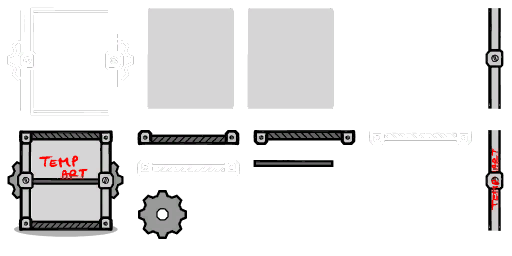
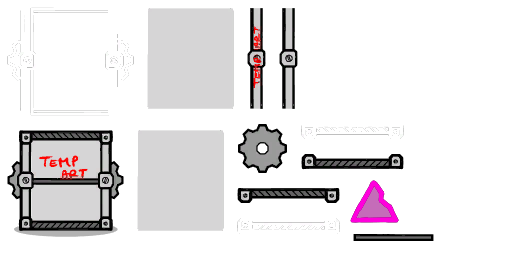
ConveyorTile; vert. mode wip

diff --git a/ConveyorTiles/ConveyorTileSM.cs b/ConveyorTiles/ConveyorTileSM.cs
@@ -1,4 +1,5 @@
-using HarmonyLib;
+using FMODUnity;
+using HarmonyLib;
 using KSerialization;
 using System.Collections.Generic;
 using UnityEngine;
@@ -9,6 +10,11 @@ namespace ConveyorTiles
 	internal class ConveyorTileSM : StateMachineComponent<ConveyorTileSM.StatesInstance>, ISaveLoadable, ICheckboxControl
 	//, IGameObjectEffectDescriptor
 	{
+		public enum ConveyorTileMode
+		{
+			Horizontal = 0,
+			Vertical = 1
+		}
 		[HarmonyPatch(typeof(Game))]
 		[HarmonyPatch(nameof(Game.DestroyInstances))]
 		public class Game_OnDestroy
@@ -82,6 +88,7 @@ namespace ConveyorTiles
 
 		[Serialize] bool LogicControllsDirection = false;
 		float TileSpeedInternal = 1;
+		[SerializeField][Serialize] public ConveyorTileMode Mode = ConveyorTileMode.Horizontal;
 
 		/// <summary>
 		/// Factorio belt arrow colors
@@ -157,22 +164,42 @@ namespace ConveyorTiles
 
 		public static bool HasTileableNeighbor(ConveyorTileSM a, ConveyorTileSM b)
 		{
-			return a.flipped == b.flipped && a.isOperational == b.isOperational && Mathf.Approximately(a.TileSpeedInternal, b.TileSpeedInternal);
+			return a.flipped == b.flipped && a.isOperational == b.isOperational && Mathf.Approximately(a.TileSpeedInternal, b.TileSpeedInternal) && a.Mode == b.Mode;
 		}
 
 		public void RefreshEndCaps()
 		{
 			if (this.transform == null) return;
 
-			int left = Grid.CellLeft(myCell);
-			int right = Grid.CellRight(myCell);
-			if (TileSMs.ContainsKey(left))
+			if (Mode == ConveyorTileMode.Horizontal)
 			{
-				TileSMs[left]?.UpdateEndCaps();
+				int left = Grid.CellLeft(myCell);
+				int right = Grid.CellRight(myCell);
+				if (TileSMs.ContainsKey(left))
+				{
+					if (TileSMs[left].Mode == this.Mode)
+						TileSMs[left]?.UpdateEndCaps();
+				}
+				if (TileSMs.ContainsKey(right))
+				{
+					if (TileSMs[right].Mode == this.Mode)
+						TileSMs[right]?.UpdateEndCaps();
+				}
 			}
-			if (TileSMs.ContainsKey(right))
+			if (Mode == ConveyorTileMode.Vertical)
 			{
-				TileSMs[right]?.UpdateEndCaps();
+				int below = Grid.CellBelow(myCell);
+				int abovel = Grid.CellAbove(myCell);
+				if (TileSMs.ContainsKey(below))
+				{
+					if (TileSMs[below].Mode == this.Mode)
+						TileSMs[below]?.UpdateEndCaps();
+				}
+				if (TileSMs.ContainsKey(abovel))
+				{
+					if (TileSMs[abovel].Mode == this.Mode)
+						TileSMs[abovel]?.UpdateEndCaps();
+				}
 			}
 			UpdateEndCaps();
 		}
@@ -250,7 +277,6 @@ namespace ConveyorTiles
 			RefreshEndCaps();
 		}
 
-		void TogglePause(bool pause) => kbac.stopped = pause;
 		bool ValidItemCell(int cell) => Grid.IsValidCell(cell) && !Grid.IsSolidCell(cell);
 
 		private void OnPickupablesChanged(object data, float dt)
@@ -278,7 +304,7 @@ namespace ConveyorTiles
 							continue;
 						}
 						//if config disables conveyor for critters
-						if (component.HasTag(GameTags.Creature) && Config.Instance.ImmuneCritters)
+						if (component.HasTag(GameTags.Creature) && (Config.Instance.ImmuneCritters || (component.GetSMI<RanchedStates.Instance>()?.IsRunning() ?? false)))
 						{
 							continue;
 						}
@@ -288,9 +314,14 @@ namespace ConveyorTiles
 							continue;
 						}
 						///Working dupes that have started working are immune (doesnt affect walkers)
-						if (pickupable.TryGetComponent<WorkerBase>(out var worker) && worker.GetWorkable() != null && (worker.GetWorkable().GetPercentComplete() > 0||Grid.PosToCell(worker.GetWorkable()) == Grid.PosToCell(component)))
+						if (pickupable.TryGetComponent<WorkerBase>(out var worker) && worker.GetWorkable() != null
+							&& (worker.GetWorkable().GetPercentComplete() > 0)
+							)
 						{
-							
+							continue;
+						}
+						if (pickupable.TryGetComponent<ChoreDriver>(out var choreDriver) && choreDriver.GetCurrentChore() != null && choreDriver.GetCurrentChore().GetReportName() == "Ranch")
+						{
 							continue;
 						}
 					}
@@ -306,8 +337,6 @@ namespace ConveyorTiles
 			}
 			gathered_entries.Recycle();
 		}
-
-
 
 		public override void OnCleanUp()
 		{

diff --git a/ConveyorTiles/ConveyorLiftConfig.cs b/ConveyorTiles/ConveyorLiftConfig.cs
@@ -1,0 +1,113 @@
+using System;
+using System.Collections.Generic;
+using System.Linq;
+using System.Text;
+using System.Threading.Tasks;
+using TUNING;
+using UnityEngine;
+
+namespace ConveyorTiles
+{
+    class ConveyorLiftConfig : IBuildingConfig
+	{
+		public const string ID = "CT_ConveyorLift";
+		public override BuildingDef CreateBuildingDef()
+		{
+			float[] materialMass = new float[]
+			{
+				125f,
+			};
+			string[] materialType = new string[]
+			{
+				MATERIALS.REFINED_METAL
+			};
+			EffectorValues noiseLevel = NOISE_POLLUTION.NONE;
+			EffectorValues decorValue = BUILDINGS.DECOR.PENALTY.TIER0;
+			BuildingDef buildingDef = BuildingTemplates.CreateBuildingDef(
+				id: ID,
+				width: 1,
+				height: 1,
+				anim: "conveyorelevator_kanim",
+				hitpoints: 15,
+				construction_time: 20f,
+				construction_mass: materialMass,
+				construction_materials: materialType,
+				melting_point: 1600f,
+				BuildLocationRule.Tile,
+				decor: decorValue,
+				noise: noiseLevel);
+
+			BuildingTemplates.CreateFoundationTileDef(buildingDef);
+
+			buildingDef.IsFoundation = true;
+			buildingDef.Overheatable = false;
+			buildingDef.Floodable = false;
+			buildingDef.Entombable = false;
+			buildingDef.PermittedRotations = PermittedRotations.Unrotatable;
+			buildingDef.TileLayer = ObjectLayer.FoundationTile;
+			buildingDef.SceneLayer = Grid.SceneLayer.TileMain;
+			buildingDef.ForegroundLayer = Grid.SceneLayer.TileFront;
+
+			buildingDef.ConstructionOffsetFilter = BuildingDef.ConstructionOffsetFilter_OneDown;
+			buildingDef.AudioCategory = "Metal";
+			buildingDef.AudioSize = "small";
+			buildingDef.DefaultAnimState = "off";
+			buildingDef.BaseTimeUntilRepair = -1f;
+
+			buildingDef.RequiresPowerInput = true;
+
+			buildingDef.PowerInputOffset = new CellOffset(0, 0);
+			buildingDef.EnergyConsumptionWhenActive = Config.Instance.TileWattage * 4;
+			buildingDef.SelfHeatKilowattsWhenActive = 0.00f;
+			buildingDef.AddLogicPowerPort = false;
+			if (!Config.Instance.NoLogicInputs)
+			{
+				buildingDef.LogicInputPorts = new List<LogicPorts.Port>()
+				{
+					LogicPorts.Port.RibbonInputPort((HashedString) LogicOperationalController.PORT_ID,
+					new CellOffset(0, 0),
+					STRINGS.BUILDINGS.PREFABS.CT_CONVEYORTILE.LOGIC_PORT_INPUT,
+					STRINGS.BUILDINGS.PREFABS.CT_CONVEYORTILE.LOGIC_PORT_INPUT_ACTIVE_RIBBON,
+					STRINGS.BUILDINGS.PREFABS.CT_CONVEYORTILE.LOGIC_PORT_INPUT_INACTIVE_RIBBON)
+				};
+				GeneratedBuildings.RegisterWithOverlay(OverlayModes.Logic.HighlightItemIDs, ID);
+			}
+			return buildingDef;
+		}
+
+		public override void ConfigureBuildingTemplate(GameObject go, Tag prefab_tag)
+		{
+			BuildingConfigManager.Instance.IgnoreDefaultKComponent(typeof(RequiresFoundation), prefab_tag);
+			go.AddOrGet<SimCellOccupier>().doReplaceElement = false;
+			go.AddOrGet<TileTemperature>();
+			go.AddOrGet<AnimTileable>();
+			go.AddOrGet<BuildingHP>().destroyOnDamaged = true;
+
+		}
+
+
+		public override void DoPostConfigureComplete(GameObject go)
+		{
+			if (!Config.Instance.NoLogicInputs)
+				go.AddOrGet<LogicOperationalController>();
+			go.AddOrGet<ConveyorTileSM>().Mode = ConveyorTileSM.ConveyorTileMode.Vertical;
+			go.GetComponent<KPrefabID>().AddTag(GameTags.FloorTiles);
+			go.AddComponent<SimTemperatureTransfer>();
+			go.AddComponent<ZoneTile>();
+			// go.AddOrGet<PortAttachment>();
+			//mdh.targetCellOffset = new CellOffset(0, 1);
+		}
+
+		public override void DoPostConfigurePreview(BuildingDef def, GameObject go)
+		{
+
+		}
+
+		public override void DoPostConfigureUnderConstruction(GameObject go)
+		{
+			base.DoPostConfigureUnderConstruction(go);
+			go.GetComponent<Constructable>().requiredSkillPerk = Db.Get().SkillPerks.ConveyorBuild.Id;
+
+		}
+	}
+}

diff --git a/ConveyorTiles/ConveyorLiftSM.cs b/ConveyorTiles/ConveyorLiftSM.cs
@@ -1,0 +1,12 @@
+using System;
+using System.Collections.Generic;
+using System.Linq;
+using System.Text;
+using System.Threading.Tasks;
+
+namespace ConveyorTiles
+{
+    class ConveyorLiftSM
+    {
+    }
+}
